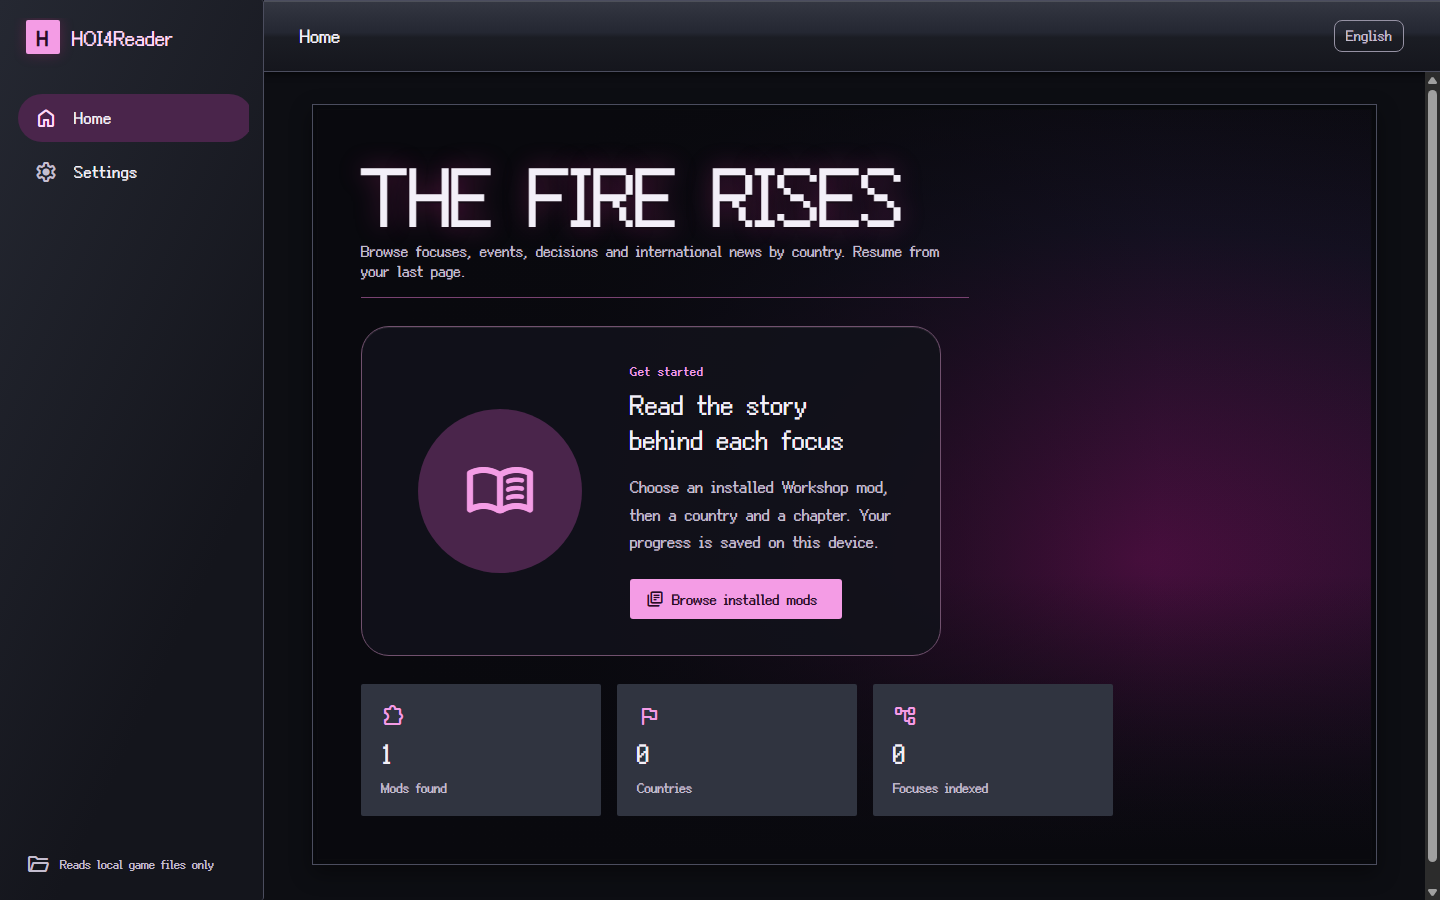
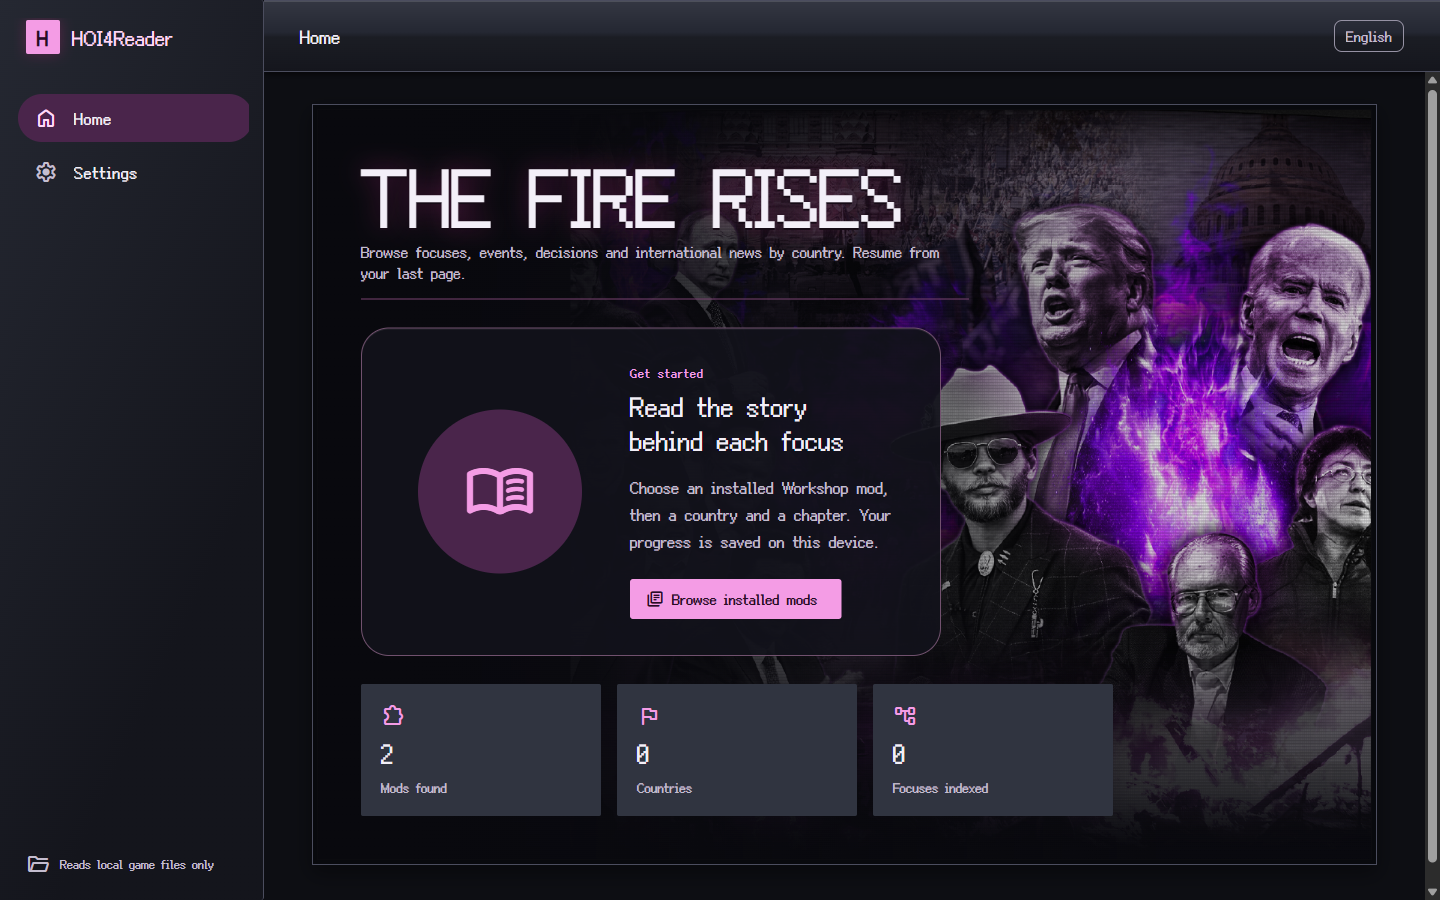
Use original TFR super-event assets and capture the live home screen

diff --git a/frontend/src/app/_tfr-theme.scss b/frontend/src/app/_tfr-theme.scss
@@ -166,22 +166,116 @@ html[data-reader-theme='tfr'] app-root {
     clip-path: polygon(0 0, calc(100% - 12px) 0, 100% 100%, 0 100%);
   }
 
-  .super-event-card {
-    border: 3px solid #666979;
-    padding: 5px;
-    box-shadow: 0 0 0 3px #121218, 0 16px 64px #000c;
-    background: #141323;
-  }
+  .super-event-overlay {
+    padding: 24px;
+    background: #0a0a10e8;
 
-  .super-event-copy {
-    border-top: 2px solid #d477d0;
-    background: radial-gradient(ellipse at bottom left, #4a1b43, transparent 70%),
-      linear-gradient(110deg, #241a3d, #14183d);
-    color: #f8eefb;
-    box-shadow: inset 0 2px 10px #ed89e33b;
-  }
+    .super-event-card {
+      position: relative;
+      isolation: isolate;
+      container-type: inline-size;
+      width: min(100%, 1001px, max(540px, calc((100dvh - 48px) * 1.566)));
+      aspect-ratio: 1001 / 639;
+      border: 0;
+      border-radius: 0 !important;
+      background: #131424;
+      color: #f8eefb;
+    }
 
-  .super-event-copy h1 {
-    text-shadow: 0 0 12px #e94bc875;
+    .super-event-art {
+      position: absolute;
+      inset: 4.7% 1.8% 4%;
+    }
+
+    .super-event-art img {
+      height: 100%;
+      max-height: none;
+      object-fit: cover;
+    }
+
+    .tfr-super-event-frame {
+      position: absolute;
+      inset: 0;
+      width: 100%;
+      height: 100%;
+      pointer-events: none;
+    }
+
+    .super-event-copy {
+      position: absolute;
+      inset: 0;
+      padding: 0 !important;
+      text-shadow: 0 1px 2px #000, 0 0 4px #000;
+    }
+
+    .super-event-copy h1,
+    .super-event-copy blockquote {
+      position: absolute;
+      box-sizing: border-box;
+      max-width: none;
+      margin: 0;
+      overflow: auto;
+      overflow-wrap: anywhere;
+      scrollbar-width: thin;
+    }
+
+    .super-event-copy h1 {
+      display: grid;
+      align-content: safe center;
+      inset: 1% 11% auto;
+      height: 9%;
+      padding: 2px 8px;
+      font-size: clamp(16px, 2.25cqw, 23px);
+      font-weight: 400;
+      line-height: 1.16;
+    }
+
+    .super-event-copy blockquote {
+      inset: 67% 20.5% 12.5%;
+      padding: 4px 10px;
+      font-size: clamp(13px, 1.7cqw, 17px);
+      line-height: 1.35;
+    }
+
+    .super-event-copy #super-event-continue {
+      position: absolute;
+      inset: auto 35% 3%;
+      height: 6%;
+      min-width: 0;
+      padding: 0 8px;
+      border-radius: 0;
+      background: linear-gradient(#3d4048, #18191e);
+      background-size: 100% 100%;
+      color: #f8eefb;
+      font-size: clamp(12px, 1.55cqw, 16px);
+      line-height: 1.15;
+      white-space: normal;
+      text-shadow: 0 1px 2px #000;
+    }
+
+    .super-event-art-status,
+    .bgm-status {
+      position: absolute;
+      inset: 13% 4% auto auto;
+      max-width: 50%;
+      margin: 0;
+      padding: 4px 8px;
+      background: #131424e8;
+    }
+
+    .super-event-art-status:has(+ .bgm-status) {
+      inset-inline: 4% auto;
+    }
+
+    .super-event-card:not(.tfr-super-event-native-frame) {
+      outline: 5px double #666979;
+      box-shadow: inset 0 0 20px #000;
+
+      h1,
+      blockquote {
+        border: 2px solid #8b5b96;
+        background: linear-gradient(135deg, #281b3ee6, #19192ee6);
+      }
+    }
   }
 }

diff --git a/frontend/src/app/app.ts b/frontend/src/app/app.ts
@@ -41,6 +41,11 @@ interface SuperEventTrack {
 type MusicEffect = { kind: 'play'; track: SuperEventTrack; recipient?: string | null } |
   { kind: 'branch'; arms: { owner?: string | null; condition: ScriptCondition<CountryFlag>; effects: MusicEffect[] }[] };
 
+interface TfrSuperEventSkin {
+  frame: string | null;
+  button: string | null;
+}
+
 interface SuperEvent {
   id: string;
   title: string;
@@ -408,11 +413,13 @@ export class App implements OnInit {
   superEvent: SuperEvent | null = null;
   superEventImage = '';
   superEventImageUnavailable = false;
+  superEventSkin: TfrSuperEventSkin | null = null;
   bgmNotice = '';
   audioStatus = '';
   audioNeedsGesture = false;
   private superEventContinuation: (() => void) | null = null;
   private superEventTrigger: HTMLElement | null = null;
+  private readonly tfrSuperEventSkins = new Map<string, Promise<TfrSuperEventSkin | null>>();
   private readonly audioQueue: SuperEventTrack[] = [];
   private playingAudio: HTMLAudioElement | null = null;
   private playingTrack: SuperEventTrack | null = null;
@@ -428,9 +435,11 @@ export class App implements OnInit {
     this.superEvent = scene;
     this.superEventImage = '';
     this.superEventImageUnavailable = false;
+    this.superEventSkin = null;
     this.superEventContinuation = continuation ?? null;
     this.changeDetector.markForCheck();
     setTimeout(() => document.getElementById('super-event-continue')?.focus(), 0);
+    if (this.saved.theme === 'tfr') void this.loadTfrSuperEventSkin(scene);
     if (scene.image_path && this.selectedMod) {
       void invoke<string | null>('load_super_event_image', {
         modPath: this.selectedMod.path,
@@ -456,6 +465,24 @@ export class App implements OnInit {
   onSuperEventImageError() {
     this.superEventImage = '';
     this.superEventImageUnavailable = true;
+  }
+
+  private async loadTfrSuperEventSkin(scene: SuperEvent) {
+    const path = this.mods.find((mod) => mod.workshop_id === '3350890356')?.path ?? this.selectedMod?.path;
+    if (!path) return;
+    let request = this.tfrSuperEventSkins.get(path);
+    if (!request) {
+      request = invoke<TfrSuperEventSkin | null>('load_tfr_super_event_skin', { modPath: path }).catch(() => {
+        this.tfrSuperEventSkins.delete(path);
+        return null;
+      });
+      this.tfrSuperEventSkins.set(path, request);
+    }
+    const skin = await request;
+    if (this.superEvent === scene) {
+      this.superEventSkin = skin;
+      this.changeDetector.markForCheck();
+    }
   }
 
   closeSuperEvent() {

diff --git a/frontend/src/app/app.html b/frontend/src/app/app.html
@@ -654,18 +654,20 @@
   aria-labelledby="super-event-title"
   (keydown.escape)="closeSuperEvent()"
 >
-  <mat-card appearance="outlined" class="super-event-card">
+  <mat-card appearance="outlined" class="super-event-card" [class.tfr-super-event-native-frame]="superEventSkin?.frame">
     <div class="super-event-art" *ngIf="superEventImage">
       <img [src]="superEventImage" [alt]="scene.title" (error)="onSuperEventImageError()" />
     </div>
+    <img class="tfr-super-event-frame" *ngIf="superEventSkin?.frame as frame" [src]="frame" alt="" />
     <mat-card-content class="super-event-copy">
       <h1 id="super-event-title">{{ scene.title }}</h1>
       <blockquote *ngIf="scene.quote">{{ scene.quote }}</blockquote>
       <p class="super-event-art-status" *ngIf="superEventImageUnavailable">{{ t('无法显示本机原图') }}</p>
       <ng-container *ngTemplateOutlet="superEventAudioStatus"></ng-container>
-      <button mat-flat-button id="super-event-continue" (click)="closeSuperEvent()">
+      <button mat-flat-button id="super-event-continue" (click)="closeSuperEvent()"
+        [style.background-image]="superEventSkin?.button ? 'url(' + superEventSkin?.button + ')' : null">
         {{ scene.dismiss || t('继续阅读') }}
-        <mat-icon iconPositionEnd>arrow_forward</mat-icon>
+        <mat-icon *ngIf="saved.theme !== 'tfr'" iconPositionEnd>arrow_forward</mat-icon>
       </button>
     </mat-card-content>
   </mat-card>

diff --git a/src-tauri/src/super_events.rs b/src-tauri/src/super_events.rs
@@ -530,14 +530,29 @@ fn decode_dds(bytes: &mut [u8]) -> Option<image::DynamicImage> {
     if !(1..=8192).contains(&width) || !(1..=8192).contains(&height) {
         return None;
     }
-    if bytes.get(84..88)? == b"DX10" {
-        let format = u32::from_le_bytes(bytes.get(128..132)?.try_into().ok()?);
-        let dimension = u32::from_le_bytes(bytes.get(132..136)?.try_into().ok()?);
-        let pitch = u32::from_le_bytes(bytes.get(20..24)?.try_into().ok()?) as usize;
-        let row_bytes = width as usize * 4;
+    let dds_u32 = |offset| Some(u32::from_le_bytes(bytes.get(offset..offset + 4)?.try_into().ok()?));
+    let bgra_offset: Option<usize> = match bytes.get(84..88)? {
         // TFR's main menu uses DXGI_FORMAT_B8G8R8A8_UNORM_SRGB.
-        if matches!(format, 87 | 91) && dimension == 3 && pitch >= row_bytes {
-            let data = bytes.get(148..148 + pitch.checked_mul(height as usize)?)?;
+        b"DX10" if matches!(dds_u32(128)?, 87 | 91) && dds_u32(132)? == 3 => Some(148),
+        // The original super-event button declares BGRA via legacy channel masks.
+        b"\0\0\0\0"
+            if [
+                dds_u32(88)?,
+                dds_u32(92)?,
+                dds_u32(96)?,
+                dds_u32(100)?,
+                dds_u32(104)?,
+            ] == [32, 0x00ff_0000, 0x0000_ff00, 0x0000_00ff, 0xff00_0000] =>
+        {
+            Some(128)
+        }
+        _ => None,
+    };
+    if let Some(offset) = bgra_offset {
+        let pitch = dds_u32(20)? as usize;
+        let row_bytes = width as usize * 4;
+        if pitch >= row_bytes {
+            let data = bytes.get(offset..offset.checked_add(pitch.checked_mul(height as usize)?)?)?;
             let mut rgba = Vec::with_capacity(row_bytes * height as usize);
             for row in data.chunks_exact(pitch) {
                 for pixel in row[..row_bytes].chunks_exact(4) {
@@ -573,6 +588,28 @@ fn decodes_the_bgra_dds_format_used_by_the_tfr_menu() {
     assert_eq!(image.get_pixel(0, 0).0, [33, 22, 11, 255]);
 }
 
+#[cfg(test)]
+#[test]
+fn decodes_the_legacy_bgra_dds_format_used_by_the_tfr_super_event_button() {
+    let mut bytes = [0; 132];
+    bytes[..4].copy_from_slice(b"DDS ");
+    for (offset, value) in [
+        (12, 1u32),
+        (16, 1),
+        (20, 4),
+        (88, 32),
+        (92, 0x00ff_0000),
+        (96, 0x0000_ff00),
+        (100, 0x0000_00ff),
+        (104, 0xff00_0000),
+    ] {
+        bytes[offset..offset + 4].copy_from_slice(&value.to_le_bytes());
+    }
+    bytes[128..132].copy_from_slice(&[11, 22, 33, 128]);
+    let image = decode_dds(&mut bytes).unwrap().into_rgba8();
+    assert_eq!(image.get_pixel(0, 0).0, [33, 22, 11, 128]);
+}
+
 fn decode_scene_image(mod_path: &Path, image_path: &Path) -> Option<String> {
     let gfx = mod_path.join("gfx").canonicalize().ok()?;
     let path = image_path.canonicalize().ok()?;
@@ -598,10 +635,63 @@ fn decode_scene_image(mod_path: &Path, image_path: &Path) -> Option<String> {
 pub async fn load_tfr_menu_art(mod_path: String) -> Option<String> {
     tauri::async_runtime::spawn_blocking(move || {
         let root = Path::new(&mod_path);
-        if !root.join("interface/NVX_menu.gfx").is_file() {
+        let interface = root.join("interface");
+        if !interface.join("TFR_start_menu.gui").is_file()
+            && !interface.join("NVX_menu.gfx").is_file()
+        {
             return None;
         }
+        for file in ["frontendmainviewbg.gfx", "NVX_menu.gfx"] {
+            let Ok(script) = decode(&interface.join(file)) else {
+                continue;
+            };
+            for sprite in blocks(&script, "corneredTileSpriteType = {") {
+                if top_value(&sprite, "name") != "GFX_frontend_bg" {
+                    continue;
+                }
+                let texture = top_value(&sprite, "texturefile");
+                if let Some(image) = local_file(root, &texture)
+                    .and_then(|path| decode_scene_image(root, &path))
+                {
+                    return Some(image);
+                }
+            }
+        }
         decode_scene_image(root, &root.join("gfx/loadingscreens/main_menu.dds"))
+    })
+    .await
+    .ok()
+    .flatten()
+}
+
+#[derive(Serialize)]
+pub struct TfrSuperEventSkin {
+    frame: Option<String>,
+    button: Option<String>,
+}
+
+#[tauri::command]
+pub async fn load_tfr_super_event_skin(mod_path: String) -> Option<TfrSuperEventSkin> {
+    tauri::async_runtime::spawn_blocking(move || {
+        let root = Path::new(&mod_path);
+        let script = decode(&root.join("interface/TFR_Super_Events.gfx")).ok()?;
+        let mut skin = TfrSuperEventSkin {
+            frame: None,
+            button: None,
+        };
+        for sprite in blocks(&script, "spriteType = {") {
+            let target = match top_value(&sprite, "name").as_str() {
+                "GFX_Super_event_bg" => &mut skin.frame,
+                "GFX_spacebar" => &mut skin.button,
+                _ => continue,
+            };
+            let texture = top_value(&sprite, "texturefile");
+            *target = local_file(root, &texture).and_then(|path| decode_scene_image(root, &path));
+            if skin.frame.is_some() && skin.button.is_some() {
+                break;
+            }
+        }
+        Some(skin)
     })
     .await
     .ok()

diff --git a/src-tauri/src/main.rs b/src-tauri/src/main.rs
@@ -4537,6 +4537,7 @@ fn main() {
             scan_mod,
             super_events::load_super_event_image,
             super_events::load_tfr_menu_art,
+            super_events::load_tfr_super_event_skin,
             load_focus_image
         ])
         .run(tauri::generate_context!())

diff --git a/docs/README.ja.md b/docs/README.ja.md
@@ -4,7 +4,7 @@
 
 Hearts of Iron IV の MOD 向けストーリーリーダーです。国を選び、国家方針とイベントを読みながら分岐を選択できます。
 
-![TFR テーマのホーム画面（サンプルデータ）](screenshots/tfr-home.png)
+![インストール済みの The Fire Rises の背景を使用したホーム画面](screenshots/tfr-home.png)
 
 - Steam ライブラリとインストール済みの Workshop MOD を検出します。フォルダーの手動指定も可能です。
 - スクリプトに基づいて国家方針、イベント、ディシジョン、国際ニュースをつなぎます。進行状況を保存し、分岐選択を取り消せます。

diff --git a/docs/README.zh-Hant.md b/docs/README.zh-Hant.md
@@ -4,7 +4,7 @@
 
 《鋼鐵雄心 IV》模組劇情閱讀器。選擇國家，沿著國策與事件閱讀，並決定劇情分支。
 
-![TFR 主題的首頁（範例資料）](screenshots/tfr-home.png)
+![載入本機 The Fire Rises 模組背景的首頁](screenshots/tfr-home.png)
 
 - 自動尋找本機 Steam 收藏庫與工作坊模組，也可手動指定資料夾。
 - 依腳本串聯國策、事件、決議與國際新聞。儲存閱讀進度，並可撤銷分支選擇。

diff --git a/docs/README.zh-Hans.md b/docs/README.zh-Hans.md
@@ -4,7 +4,7 @@
 
 钢铁雄心 IV 模组剧情阅读器。选一个国家，沿国策和事件阅读，并决定剧情分支。
 
-![TFR 主题的主页（示例数据）](screenshots/tfr-home.png)
+![载入本机 The Fire Rises 模组背景的主页](screenshots/tfr-home.png)
 
 - 自动寻找本机 Steam 库和创意工坊模组，也支持手动指定目录。
 - 按脚本串联国策、事件、决议和国际新闻。保存阅读进度，并允许撤回分支选择。

diff --git a/README.md b/README.md
@@ -6,7 +6,7 @@ A desktop story reader for Hearts of Iron IV mods. Pick a country, read its nati
 
 ## Home screen
 
-The TFR-themed home screen uses sample data.
+HOI4Reader running with a local installation of The Fire Rises. The menu artwork is from the mod.
 
 ![Home screen in the TFR theme](docs/screenshots/tfr-home.png)
 
